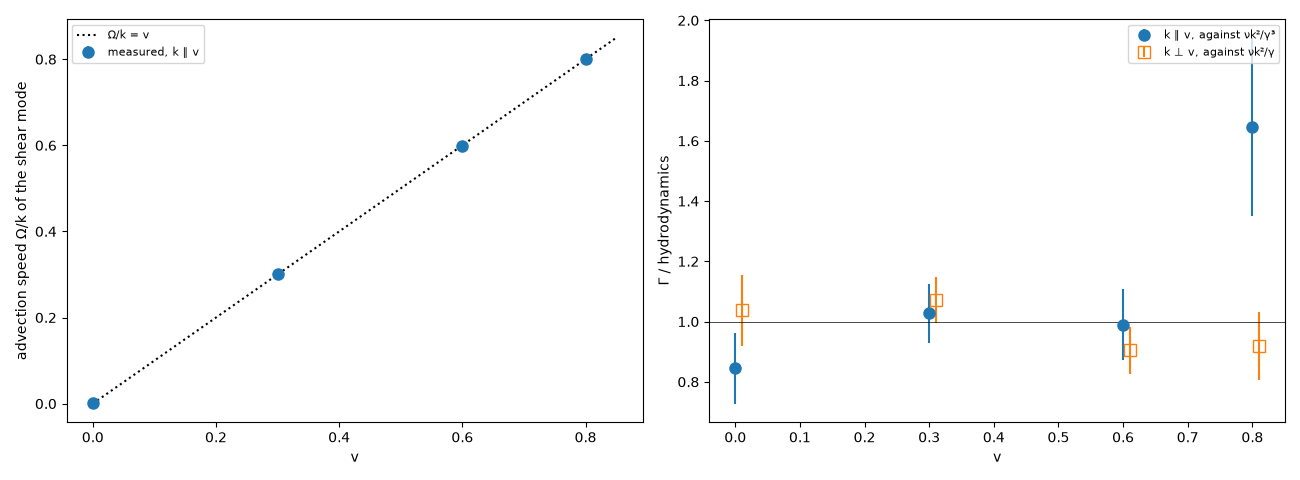
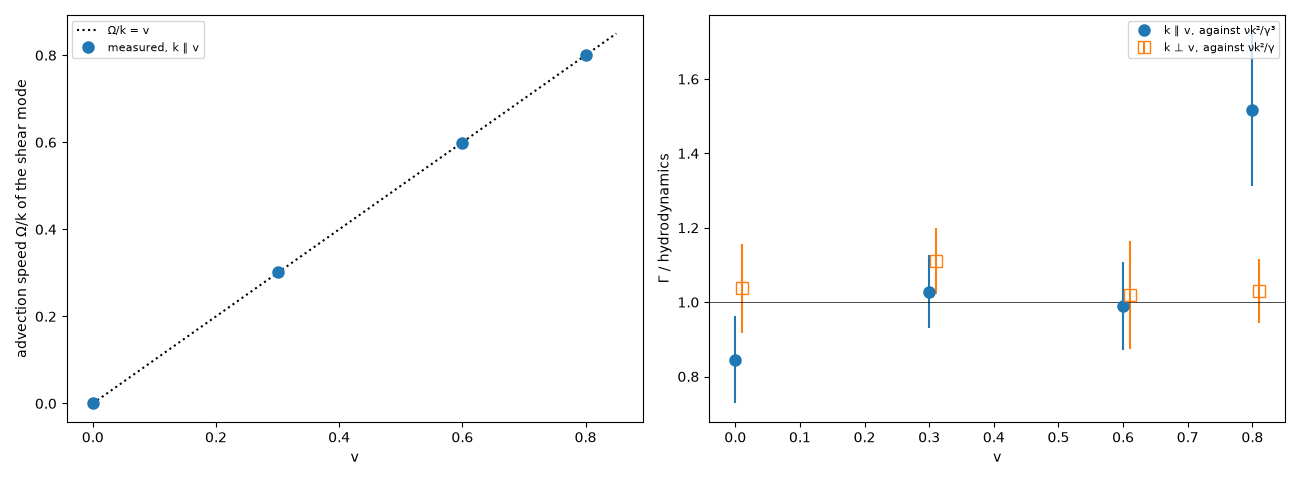
boost: pooled v=0.8 and Δt/2 statistics, L=2.4, shear-mode projection fit, kh=0.52; follow-up η/s and no-viscosity sets

diff --git a/docs/boost.tex b/docs/boost.tex
@@ -173,6 +173,8 @@ Campaign \texttt{boost} (\texttt{nersc/campaign\_boost.txt}): $L=1.2$ ($kh\ge0.2
 n-scheme, $t=300$, 16 runs at each $v=0$, $0.3$, $0.6$, $0.8$, and 4 at $v=0.8$ with $\Delta t/2$; two
 nodes, packed (jobs 61156299, 61156300).  A larger box, $L=2.4$ ($kh\ge0.13$), 8 runs at $v=0$, $0.6$, $0.8$,
 runs on a third node (61156353).  The long shear times ($\gamma^3/\nu k^2\approx75$ at $v=0.8$, $kh=0.26$) set $t=300$. 
+More statistics at $v=0.8$ (job 61158254): 16 further runs to $t=600$, pooled with the first 16, and 16
+runs at $\Delta t/2$ (replacing the first 4).
 
 %=============================================================================
 \section{Results}
@@ -183,7 +185,8 @@ runs on a third node (61156353).  The long shear times ($\gamma^3/\nu k^2\approx
 proposal reaches $|v|=1$ at these entropies).  The rest-frame temperature is held: $T_{\rm rel}=90.88$,
 $90.88$, $90.87$, $90.86$ at $v=0$, $0.3$, $0.6$, $0.8$, and $\Delta H/H\le2\times10^{-3}$ by $t=300$.  The kinetic energy
 of the fluctuations about the mean flow, in the units $2VwT$, is $1.00$, $1.46$, $4.49$, $19.3$, against the
-predicted $1$, $1.45$, $4.2$, $17.6$ (\Sect{sec:measure}).  Errors below are jackknife over the 16 runs.
+predicted $1$, $1.45$, $4.2$, $17.6$ (\Sect{sec:measure}).  Errors below are jackknife over the runs (16;
+32 at $v=0.8$).
 
 \paragraph{1. Equal time}, \Fig{fig:bstatic}.  $C_{AA}(\bm k,0)/\chi_{AA}$ at the smallest $k$ ($kh=0.26$):
 \begin{center}
@@ -194,31 +197,54 @@ $v$ & $E$ & $M_x$ & $M_y$ & $E$ & $M_x$ & $M_y$ \\ \hline
 0 & $1.02(5)$ & $1.02(5)$ & $1.07(6)$ & $0.94(3)$ & $1.15(7)$ & $0.94(3)$ \\
 0.3 & $0.93(5)$ & $0.90(6)$ & $1.00(5)$ & $1.11(5)$ & $1.04(4)$ & $1.13(6)$ \\
 0.6 & $0.93(11)$ & $0.92(12)$ & $0.99(6)$ & $0.98(3)$ & $1.00(4)$ & $0.96(5)$ \\
-0.8 & $0.90(12)$ & $0.89(12)$ & $0.96(11)$ & $0.99(6)$ & $1.01(6)$ & $0.94(6)$ \\
+0.8 & $0.86(7)$ & $0.85(7)$ & $0.97(7)$ & $0.97(3)$ & $0.98(3)$ & $0.93(3)$ \\
+0.8, $\Delta t/2$ & $0.80(11)$ & $0.80(11)$ & $1.05(10)$ & $0.89(4)$ & $0.88(4)$ & $0.96(5)$ \\
 \hline
 \end{tabular}
 \end{center}
 The fluctuations are those of the moving fluid, to within the errors, although $\chi_{xx}$ is 19 times
-its rest value at $v=0.8$.  (Along the flow the values sit a little below 1 at every $v>0$, $1$--$2\sigma$;
-the larger box will tell.)
+its rest value at $v=0.8$.  Along the flow the values sit below 1 at every $v>0$ ($2\sigma$ at $v=0.8$);
+in the larger box (below) the same $kh=0.26$ gives $0.97$ at $v=0.8$, so this is probably statistics.
 
 \paragraph{2. The shear mode along the flow is advected}, \Fig{fig:bshear}.  $C_{yy}(k\hat x,\tau)$
-oscillates at the advection frequency $vk$ inside the decaying envelope.  Fitting
-$C\propto e^{-i\Omega\tau-\Gamma\tau}$ (\Fig{fig:bfit}):
+oscillates at the advection frequency $vk$ inside the decaying envelope.  The fit is made to the
+shear-mode amplitude $\ell\cdot U$, with $\ell$ the left eigenvector of $K$ for the shear mode,
+\begin{equation}
+C_{\rm shear}(\bm k,\tau)=\ell\, C(\bm k,\tau)\,\ell^{T}\propto e^{-i\Omega\tau-\Gamma\tau},
+\end{equation}
+over the range where $|C_{\rm shear}/C_{\rm shear}(0)|>0.25$ (\Fig{fig:bfit}).  For $\bm k\parallel\bm v$ this is $C_{yy}$;
+for $\bm k\perp\bm v$ it removes the sound that $C_{xx}$ carries when $v\neq0$ (\Fig{fig:bperp}).
 \begin{center}
 \begin{tabular}{lcccc}
 \hline
 $v$ & $\Omega/k$ & $\Gamma/(\nu k^2/\gamma^3)$, $\bm k\parallel\bm v$ & $\Gamma/(\nu k^2/\gamma)$, $\bm k\perp\bm v$ \\ \hline
 0 & $0.002(1)$ & $0.84(12)$ & $1.04(12)$ \\
-0.3 & $0.302(1)$ & $1.03(10)$ & $1.07(8)$ \\
-0.6 & $0.598(1)$ & $0.99(12)$ & $0.90(8)$ \\
-0.8 & $0.801(1)$ & $1.65(30)$ & $0.92(11)$ \\
+0.3 & $0.302(1)$ & $1.03(10)$ & $1.11(9)$ \\
+0.6 & $0.598(1)$ & $0.99(12)$ & $1.02(15)$ \\
+0.8 & $0.800(1)$ & $1.52(20)$ & $1.03(9)$ \\
+0.8, $\Delta t/2$ & $0.800(1)$ & $1.43(25)$ & $0.97(12)$ \\
+\hline
+\end{tabular}
+\end{center}
+At the next wave vector, $kh=0.52$, the errors are three times smaller:
+\begin{center}
+\begin{tabular}{lcc}
+\hline
+$v$ & $\Gamma/(\nu k^2/\gamma^3)$, $\bm k\parallel\bm v$ & $\Gamma/(\nu k^2/\gamma)$, $\bm k\perp\bm v$ \\ \hline
+0 & $1.00(4)$ & $1.00(4)$ \\
+0.3 & $1.11(4)$ & $1.16(6)$ \\
+0.6 & $1.10(7)$ & $1.21(6)$ \\
+0.8 & $1.36(7)$ & $1.14(4)$ \\
+0.8, $\Delta t/2$ & $1.61(10)$ & $1.19(7)$ \\
 \hline
 \end{tabular}
 \end{center}
 The advection speed is $v$ to $10^{-3}$.  The damping follows time dilation: $\gamma^{-3}$ along the flow
-(a factor $4.6$ at $v=0.8$) and $\gamma^{-1}$ across it, within the errors, except along the flow at $v=0.8$
-($1.65\pm0.30$, $2\sigma$ high; there the decay time is $77$, a quarter of the run).
+(a factor $4.6$ at $v=0.8$) and $\gamma^{-1}$ across it, up to an excess that appears with the flow.  At rest
+the damping is hydrodynamic to 4\%.  With flow it is 10--20\% high, and along the flow at $v=0.8$
+40--50\% high at both $kh=0.26$ and $0.52$.  The excess is about the same fraction at both $k$, so it acts
+like an extra viscosity, and halving $\Delta t$ does not remove it: it is not a time-step error.  Whether
+it comes from the viscous step or from the ideal step is the follow-up below.
 
 \paragraph{3. Sound along the flow}, \Fig{fig:bpar}.  $C_{xx}$ and $C_{EE}$ for $\bm k\parallel\bm v$ follow the
 two Doppler-shifted sound modes, $(v\pm c_s)/(1\pm vc_s)=0.414$ and $0.942$ at $v=0.8$, with no adjustable
@@ -227,17 +253,31 @@ parameter: the curves lie on the predictions for twenty periods.
 \paragraph{4. Across the flow}, \Fig{fig:bperp}.  $C_{yy}$ for $\bm k\perp\bm v$ is sound across the flow, slower
 by $\sqrt{(1-v^2)/(1-c_s^2v^2)}$ ($0.68$ at $v=0.8$): the period grows as predicted.  $C_{xx}$ for $\bm k\perp\bm v$
 is the shear mode of the momentum along the flow, mixed with sound through $\delta M_x=\delta w\,\gamma^2v$; the
-mixture (the sound wiggles on the decaying shear) is reproduced.
+mixture (the sound wiggles on the decaying shear) is reproduced.  (Fitting $C_{xx}$ itself picks up the
+sound and gives nonsense at $v=0.8$; hence the projection above.)
+
+\paragraph{5. The larger box}, $L=2.4$, 8 runs per $v$, $kh\ge0.13$ (\Fig{fig:bshear24}).  The advected shear
+mode at $kh=0.13$ follows hydrodynamics for 25 periods ($\tau\le80$) at $v=0.6$ and $0.8$, and $\Omega/k=v$ to
+$10^{-3}$.  The decay times there ($\gamma^3/\nu k^2\approx300$ at $v=0.8$) equal the run length, so the damping is
+not measured well: $\Gamma/{\rm hydro}=1.1\pm0.7$ along and $1.35\pm0.35$ across the flow at $v=0.8$.  At $kh=0.26$
+the two boxes agree.  Equal-time values at $kh=0.13$ are within $1$--$2\sigma$ of 1 (errors 10--30\% with 8
+runs; \Fig{fig:bstatic24}).
 
 \paragraph{So far.}  A fluid moving at up to $v=0.8$ is simulated in equilibrium, and its correlators
 along and across the flow are those of boosted fluctuating hydrodynamics: susceptibilities, advection,
-the relativistic addition of the sound speed, and the time dilation of the damping.  Open: the shear
-damping along the flow at $v=0.8$; the larger box ($L=2.4$, $kh\ge0.13$) is running.
+the relativistic addition of the sound speed, and the time dilation of the damping.  Open: an excess
+damping of the shear modes with flow, 10--20\% at $v\le0.6$, 40--50\% along the flow at $v=0.8$, not from
+the time step.
+
+\paragraph{Follow-up} (tasks 125--220).  At $L=1.2$, $v=0$ and $0.8$, 16 runs each with $\eta/s=0.1$ and $0.4$,
+and with the stochastic step switched off (\texttt{SR\_NOVISC=1}, ideal SPH from the equilibrium draw).  If
+the excess is proportional to $\eta$, it comes from the viscous step; if it survives without viscosity, it
+is a numerical damping of the ideal step for moving particles.
 
 \begin{figure}[t]
 \includegraphics[width=\textwidth]{figs/boost_static.png}
 \caption{Equal-time $C_{AA}(\bm k,0)/\chi_{AA}$ against $kh$ for $A=E$, $M_x$, $M_y$; filled: $\bm k\parallel\bm v$,
-open: $\bm k\perp\bm v$; colour: $v$ (purple: $v=0.8$ at $\Delta t/2$, 4 runs).}
+open: $\bm k\perp\bm v$; colour: $v$ (purple: $v=0.8$ at $\Delta t/2$, 16 runs).}
 \label{fig:bstatic}
 \end{figure}
 \begin{figure}[t]
@@ -261,10 +301,18 @@ along the flow, mixed with sound); dotted: hydrodynamics.}
 \begin{figure}[t]
 \includegraphics[width=\textwidth]{figs/boost_fit.png}
 \caption{Fits of the shear modes at $kh=0.26$: advection speed $\Omega/k$ against $v$, and the damping
-against $\nu k^2/\gamma^3$ ($\bm k\parallel\bm v$) and $\nu k^2/\gamma$ ($\bm k\perp\bm v$); jackknife errors.}
+against $\nu k^2/\gamma^3$ ($\bm k\parallel\bm v$) and $\nu k^2/\gamma$ ($\bm k\perp\bm v$), from the shear-mode projection; jackknife errors.}
 \label{fig:bfit}
 \end{figure}
-
-(The $L=2.4$ results are added when job 61156353 finishes.)
+\begin{figure}[t]
+\includegraphics[width=\textwidth]{figs/boost_static_L24.png}
+\caption{As \Fig{fig:bstatic}, for $L=2.4$ (8 runs per $v$).}
+\label{fig:bstatic24}
+\end{figure}
+\begin{figure}[t]
+\includegraphics[width=\textwidth]{figs/boost_shear_L24.png}
+\caption{As \Fig{fig:bshear}, for $L=2.4$ at $kh=0.13$.}
+\label{fig:bshear24}
+\end{figure}
 
 \end{document}

diff --git a/nersc/LOG.md b/nersc/LOG.md
@@ -114,6 +114,14 @@ moving β^μ, E_k recorded.  Output `$SCRATCH/sph/boost/`.  Analysis `examples/b
   1-34) and **61156300** (35-68), checkout `~/stochastic-sph-run`, THREADS=4, -t 3 h.
 - L = 2.4, v = 0, 0.6, 0.8 × 8, t = 300: job **61156353** (tasks 69-92), checkout
   `~/stochastic-sph-run2`, -t 8 h.
+- v = 0.8 statistics: job **61158254** (tasks 93-124: 16 runs to t = 600, 16 at Δt/2), checkout
+  `~/stochastic-sph-run`.  All runs of 61156299/300/353 and 61158254 completed, none broke.
+- Outcome so far (docs/boost.pdf): susceptibilities, advection, Doppler-shifted sound, time-dilated
+  damping all as predicted; but an excess shear damping with flow (10-20% at v ≤ 0.6, 40-50% along
+  the flow at v = 0.8, at kh = 0.26 and 0.52), not removed by Δt/2.  Fit the shear-mode projection
+  (left eigenvector of K), not C_xx, across the flow.
+- Follow-up tasks 125-220 (η/s = 0.1, 0.4 and SR_NOVISC=1 at v = 0, 0.8): is the excess from the
+  viscous or the ideal step?
 
 ### `cl` — continuum limit, 2026-11-10, `nersc/campaign_cl.txt`, docs/continuum_limit.tex
 
